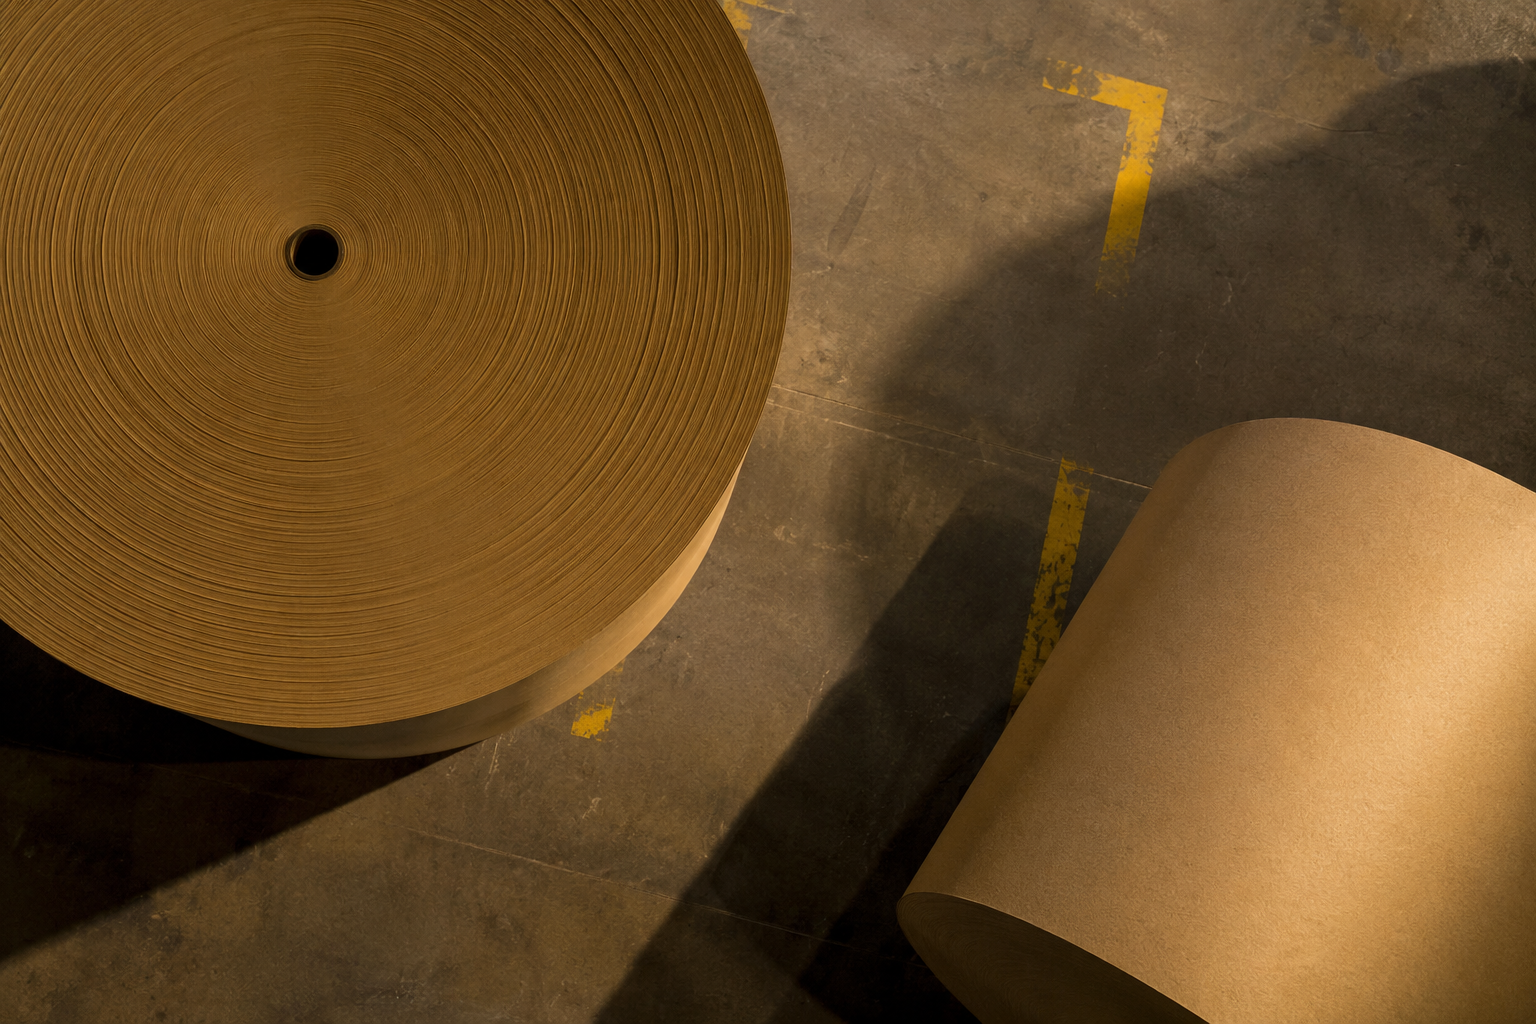
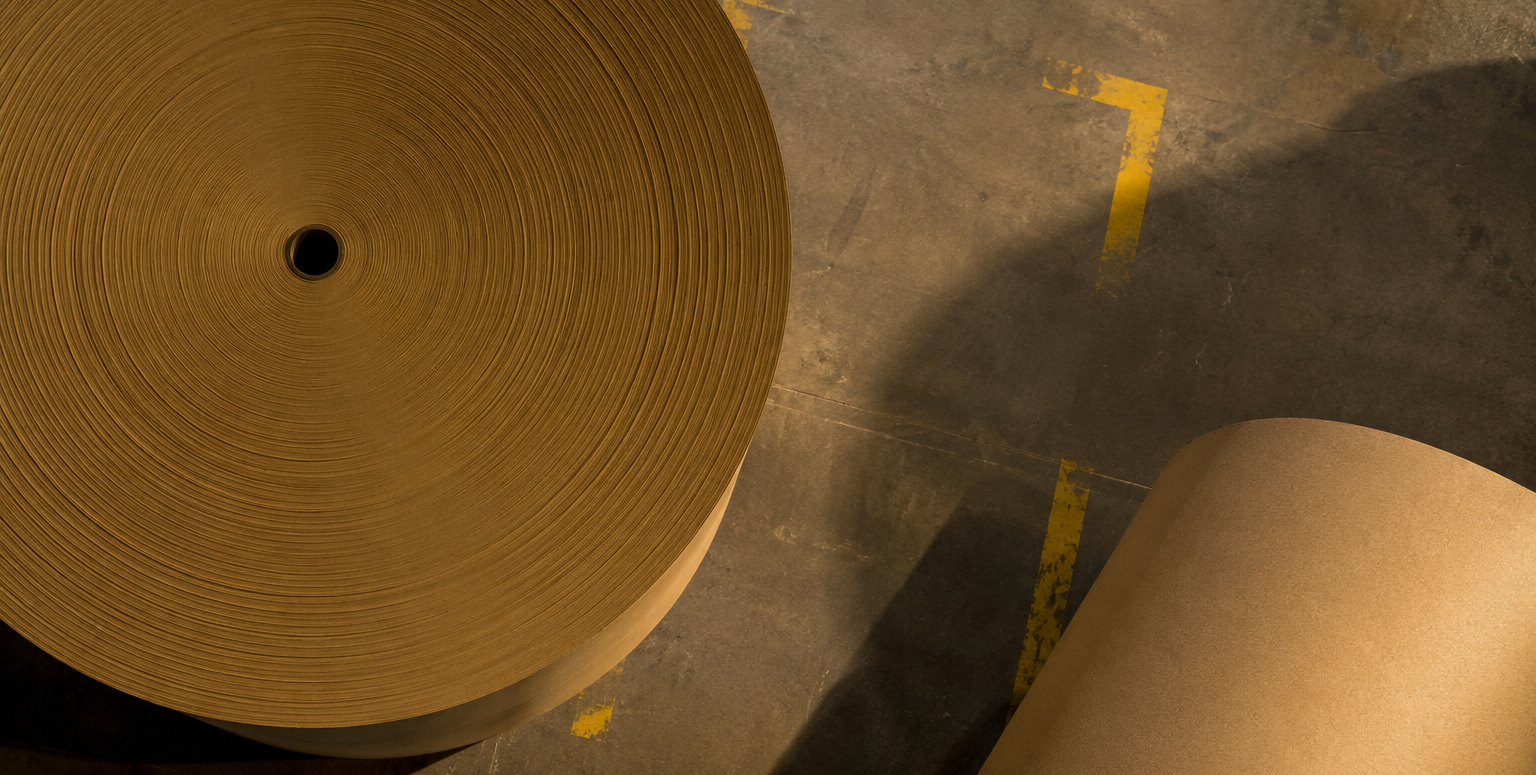
fixed js code

diff --git a/main_folder/script-en.js b/main_folder/script-en.js
@@ -63,7 +63,17 @@ const modalSpecsName = document.getElementById("modalSpecsName");
 const modalDescription = document.getElementById("modalDescription");
 const modalSpecs = document.getElementById("modalSpecs");
 const closeBtn = document.querySelector(".close-btn");
+const modalContent = document.querySelector(".modal-content");
 const productCards = document.querySelectorAll(".product-card");
+
+function closeModal() {
+  if (!modal) {
+    return;
+  }
+
+  modal.style.display = "none";
+  document.body.style.overflow = "auto";
+}
 
 productCards.forEach((card) => {
   card.addEventListener("click", function () {
@@ -111,22 +121,35 @@ productCards.forEach((card) => {
 });
 
 if (closeBtn && modal) {
-  closeBtn.addEventListener("click", function () {
-    modal.style.display = "none";
-    document.body.style.overflow = "auto";
+  ["click", "touchend"].forEach((eventName) => {
+    closeBtn.addEventListener(eventName, function (event) {
+      event.preventDefault();
+      event.stopPropagation();
+      closeModal();
+    });
   });
 }
 
-window.addEventListener("click", function (event) {
-  if (event.target === modal) {
-    modal.style.display = "none";
-    document.body.style.overflow = "auto";
-  }
-});
+if (modal && modalContent) {
+  ["click", "touchend"].forEach((eventName) => {
+    modal.addEventListener(eventName, function (event) {
+      if (!modalContent.contains(event.target)) {
+        closeModal();
+      }
+    });
+  });
+}
+
+if (modalContent) {
+  ["click", "touchend"].forEach((eventName) => {
+    modalContent.addEventListener(eventName, function (event) {
+      event.stopPropagation();
+    });
+  });
+}
 
 document.addEventListener("keydown", function (event) {
-  if (event.key === "Escape" && modal.style.display !== "none") {
-    modal.style.display = "none";
-    document.body.style.overflow = "auto";
+  if (event.key === "Escape" && modal && modal.style.display !== "none") {
+    closeModal();
   }
 });

diff --git a/main_folder/script.js b/main_folder/script.js
@@ -100,6 +100,16 @@ const modalSpecsName = document.getElementById("modalSpecsName");
 const modalDescription = document.getElementById("modalDescription");
 const modalSpecs = document.getElementById("modalSpecs");
 const closeBtn = document.querySelector(".close-btn");
+const modalContent = document.querySelector(".modal-content");
+
+function closeModal() {
+  if (!modal) {
+    return;
+  }
+
+  modal.style.display = "none";
+  document.body.style.overflow = "auto";
+}
 
 // Get all product cards
 const productCards = document.querySelectorAll(".product-card");
@@ -153,24 +163,37 @@ productCards.forEach((card) => {
 
 // Close modal on X click
 if (closeBtn && modal) {
-  closeBtn.addEventListener("click", function () {
-    modal.style.display = "none";
-    document.body.style.overflow = "auto";
+  ["click", "touchend"].forEach((eventName) => {
+    closeBtn.addEventListener(eventName, function (event) {
+      event.preventDefault();
+      event.stopPropagation();
+      closeModal();
+    });
   });
 }
 
 // Close modal when clicking outside the modal content
-window.addEventListener("click", function (event) {
-  if (event.target === modal) {
-    modal.style.display = "none";
-    document.body.style.overflow = "auto";
-  }
-});
+if (modal && modalContent) {
+  ["click", "touchend"].forEach((eventName) => {
+    modal.addEventListener(eventName, function (event) {
+      if (!modalContent.contains(event.target)) {
+        closeModal();
+      }
+    });
+  });
+}
+
+if (modalContent) {
+  ["click", "touchend"].forEach((eventName) => {
+    modalContent.addEventListener(eventName, function (event) {
+      event.stopPropagation();
+    });
+  });
+}
 
 // Close modal on Escape key
 document.addEventListener("keydown", function (event) {
-  if (event.key === "Escape" && modal.style.display !== "none") {
-    modal.style.display = "none";
-    document.body.style.overflow = "auto";
+  if (event.key === "Escape" && modal && modal.style.display !== "none") {
+    closeModal();
   }
 });

diff --git a/main_folder/styles.css b/main_folder/styles.css
@@ -201,7 +201,7 @@ textarea {
     text-transform: uppercase;
     letter-spacing: 0.16em;
     font-size: 12px;
-    color: var(--color-accent);
+    color: #DCCFAF;
     font-weight: 800;
 }
 h1 {
@@ -211,6 +211,16 @@ h1 {
     line-height: 1.15;
     margin: 0 0 1rem 0;
 }
+
+.title {
+  font-family: "Cormorant Garamond", serif;
+  font-size: clamp(3rem, 6vw, 5.5rem);
+  max-width: 20ch;
+  line-height: 1.15;
+  margin: 0 0 1rem 0;
+  color: #A8D85A;
+}
+
 h2 {
     font-family: "Cormorant Garamond", serif;
     font-size: clamp(2rem, 4vw, 3.4rem);
@@ -222,7 +232,9 @@ h3 {
     font-size: 1.25rem;
     margin-bottom: 0.5rem;
 }
-.hero-text,
+.hero-text{
+  color: #DCCFAF;
+}
 .section-heading p,
 .product-card p,
 .logistics-panel p {
@@ -567,6 +579,27 @@ h3 {
 }
 .modal-header.modal-header--fit::before {
     display: block;
+}
+
+.close-btn {
+    position: absolute;
+    top: 12px;
+    right: 12px;
+    z-index: 3;
+    width: 40px;
+    height: 40px;
+    display: grid;
+    place-items: center;
+    border: 0;
+    border-radius: 999px;
+    background: rgba(0, 0, 0, 0.6);
+    color: #fff;
+    font-size: 1.8rem;
+    line-height: 1;
+    cursor: pointer;
+    user-select: none;
+    -webkit-tap-highlight-color: transparent;
+    touch-action: manipulation;
 }
 
 .modal-img {

diff --git a/ru/index.html b/ru/index.html
@@ -45,7 +45,7 @@
                 <div class="header-actions">
                     <a
                         class="language-toggle"
-                        href="./index-en.html"
+                        href="../en/"
                         data-label="EN"
                         aria-label="Сменить тему"
                     >
@@ -67,7 +67,7 @@
                         </p>
                         <!--<h1>Древесные гранулы и почвенные продукты для долгосрочной торговли.</h1>
 -->
-                        <h1>
+                        <h1 class="title">
                             Дистрибьюция продукции проверенных производителей
                         </h1>
                         <p class="hero-text">
@@ -404,7 +404,7 @@
                 </div>
             </div>
         </div>
-        <!-- Fonts used under the SIL Open Font License --
+        <!-- Fonts used under the SIL Open Font License -->
         <script src="../main_folder/script.js"></script>
     </body>
 </html>

diff --git a/en/index-en.html b/en/index-en.html
@@ -318,7 +318,7 @@
                 </div>
             </div>
         </div>
-        <!-- Fonts used under the SIL Open Font License --
+        <!-- Fonts used under the SIL Open Font License -->
         <script src="../main_folder/script-en.js"></script>
     </body>
 </html>